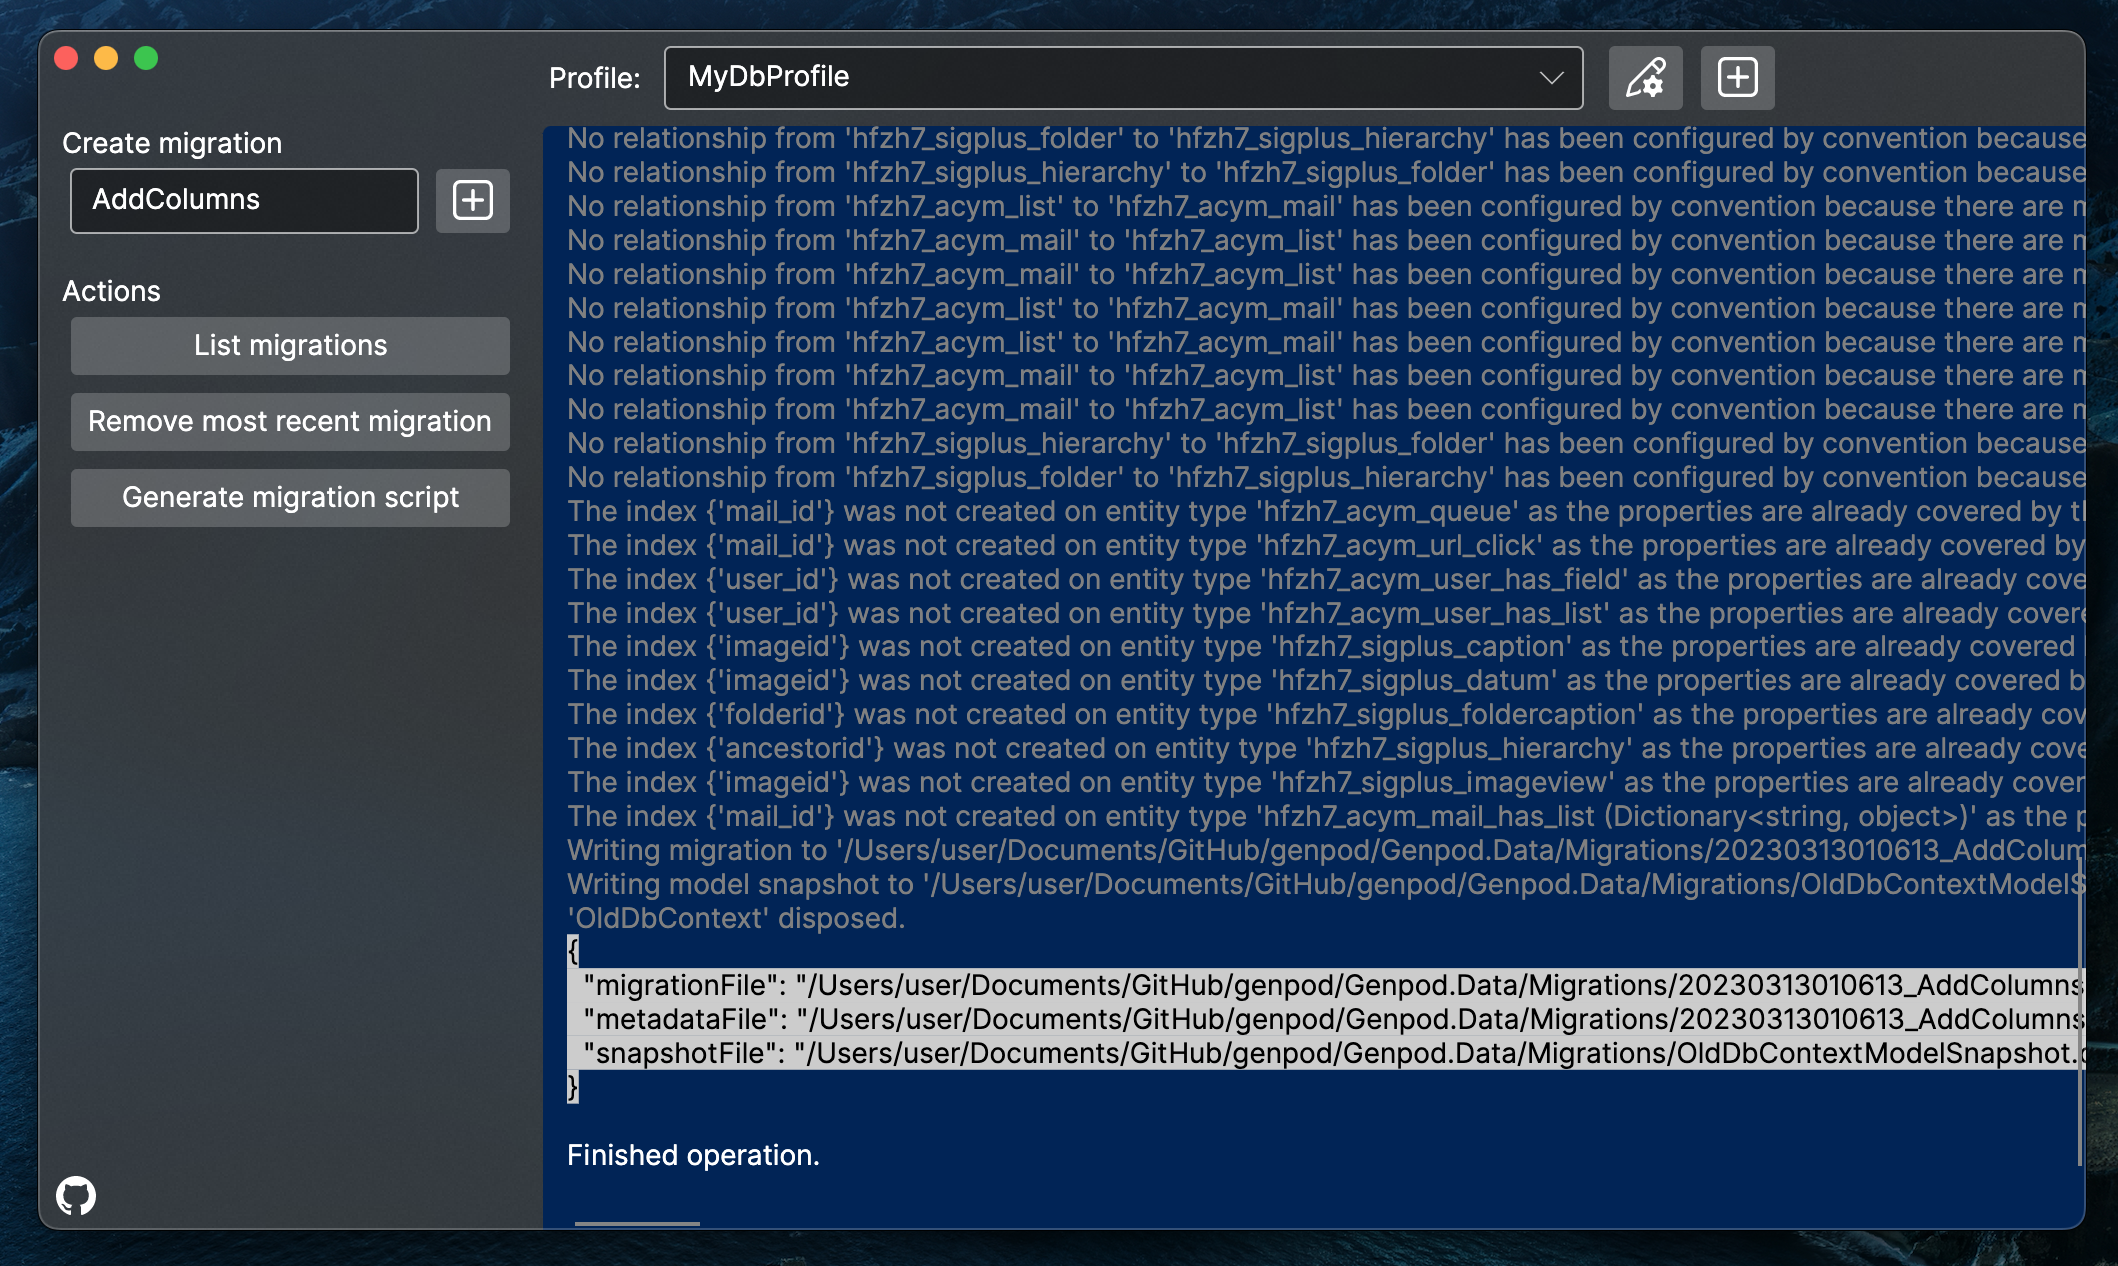
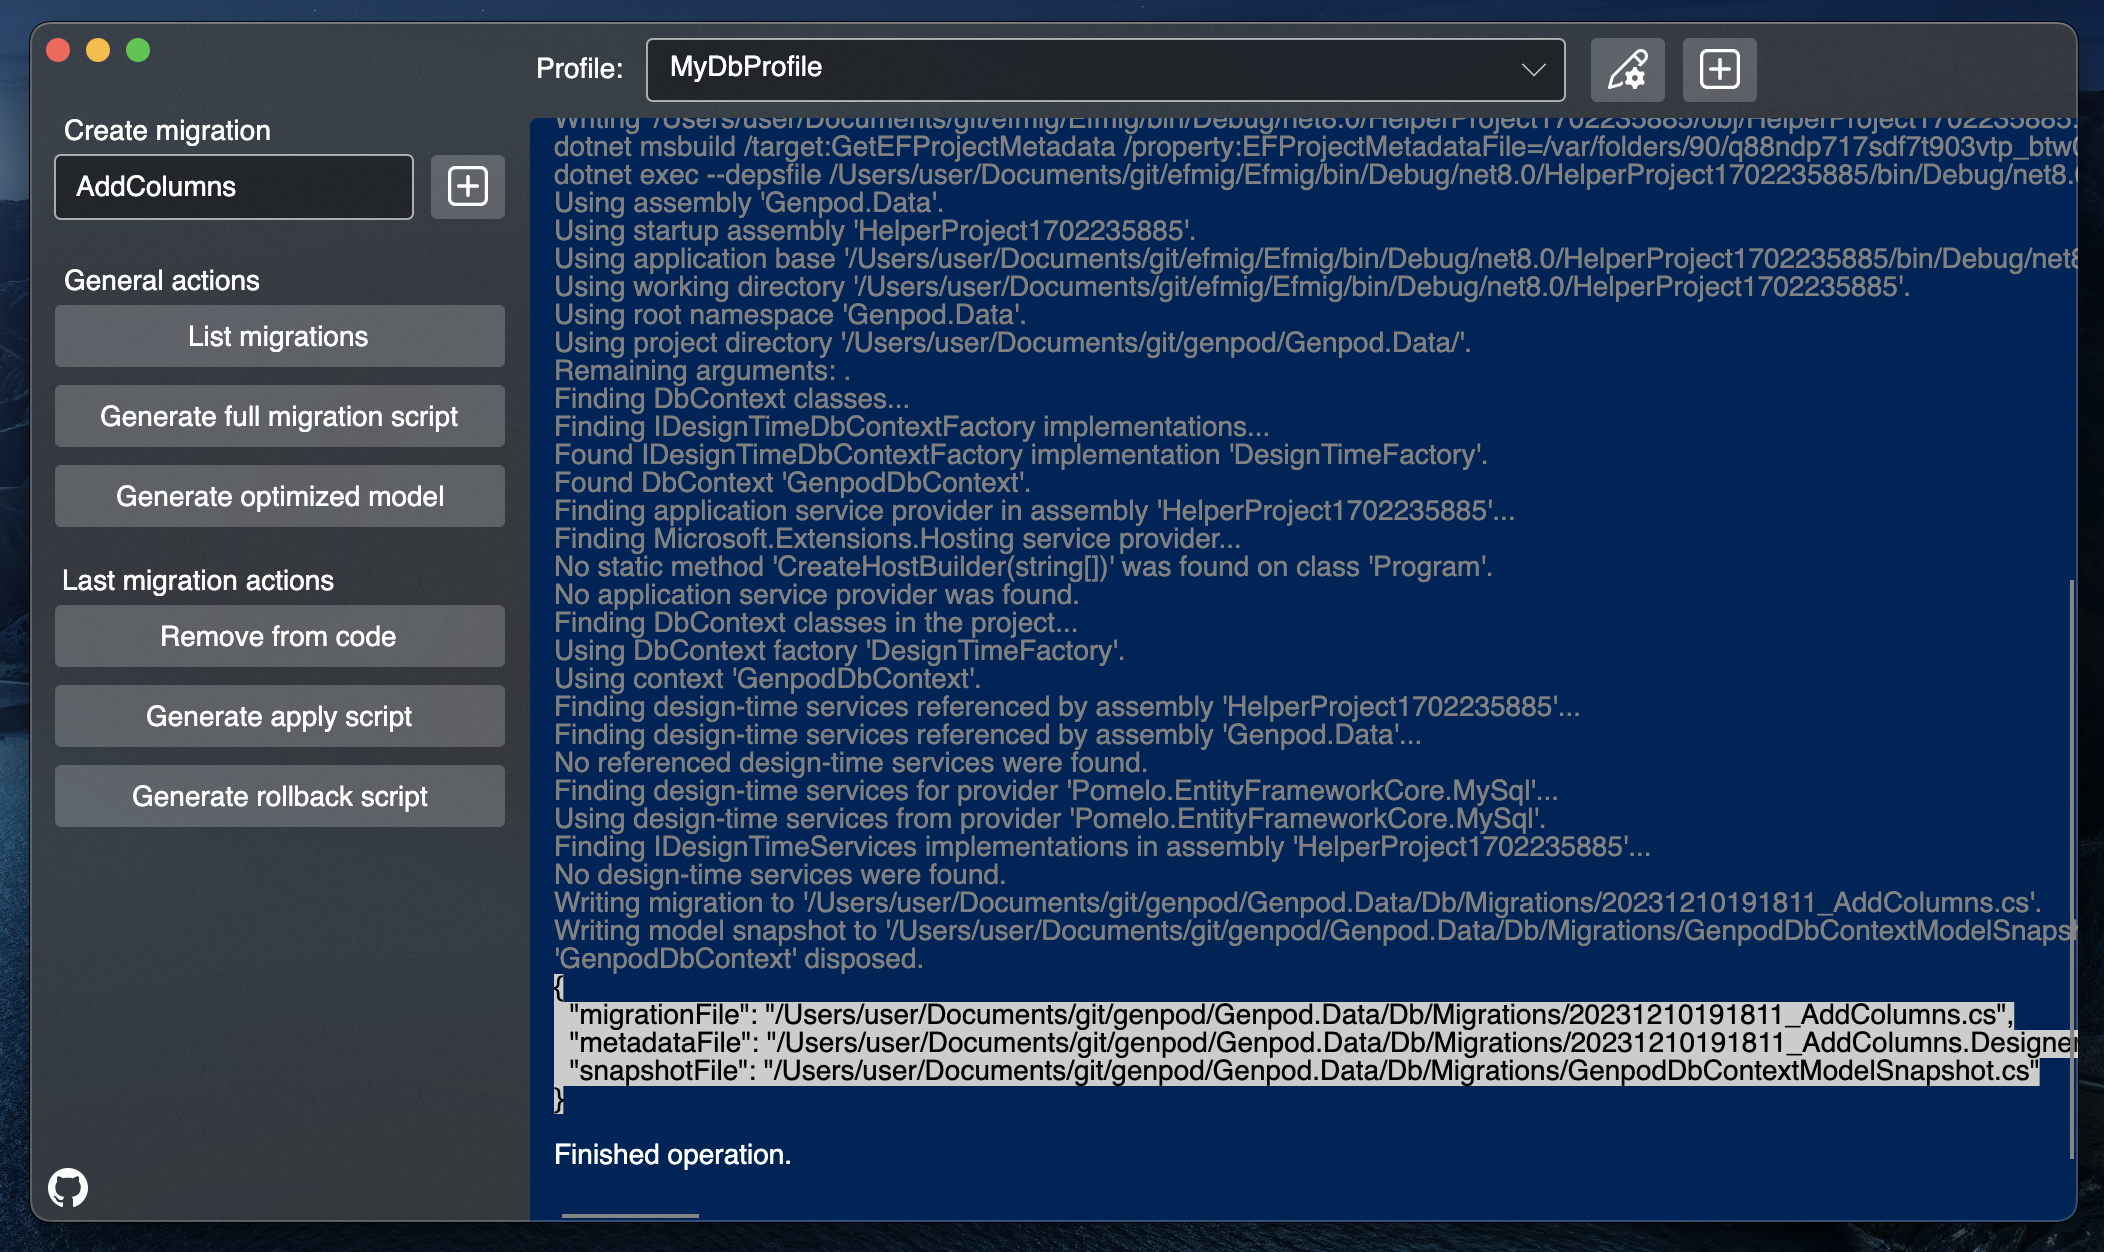
Update README

diff --git a/README.md b/README.md
@@ -49,9 +49,15 @@ optionsBuilder.UseMySql(connectionString, serverVersion);
 ## Usage
 You can invoke one of the following actions:
 - Create a new migration. Specify its name beforehand and click `[+]` button on the right.
-- List migrations. This action does nothing but lists already existing migrations.
-- Remove most recent migration. This action removes most recent migration from **the code**. Nothing will happen on the actual database.
-- Generate migration script. This action opens default text editor with SQL code of all migrations for you to review.
+- General actions:
+  - List migrations. This action does nothing but lists already existing migrations.
+  - Generate migration script. This action opens default text editor with SQL code of all migrations for you to review.
+  - Generate optimized model.
+- Last migration actions:
+  - Remove from code. This action removes most recent migration from **the code**. Nothing will happen on the actual database. Will fail if the migration is already applied on database - in that case, use "Generate rollback script" action first.
+  - Generate apply script. This actions generates SQL script of last migration for you to review and manually apply.
+  - Generate rollback script. This action generates SQL script that rolls back last migration for you to review and manually apply.
+
 
 ## Other screenshots
 
